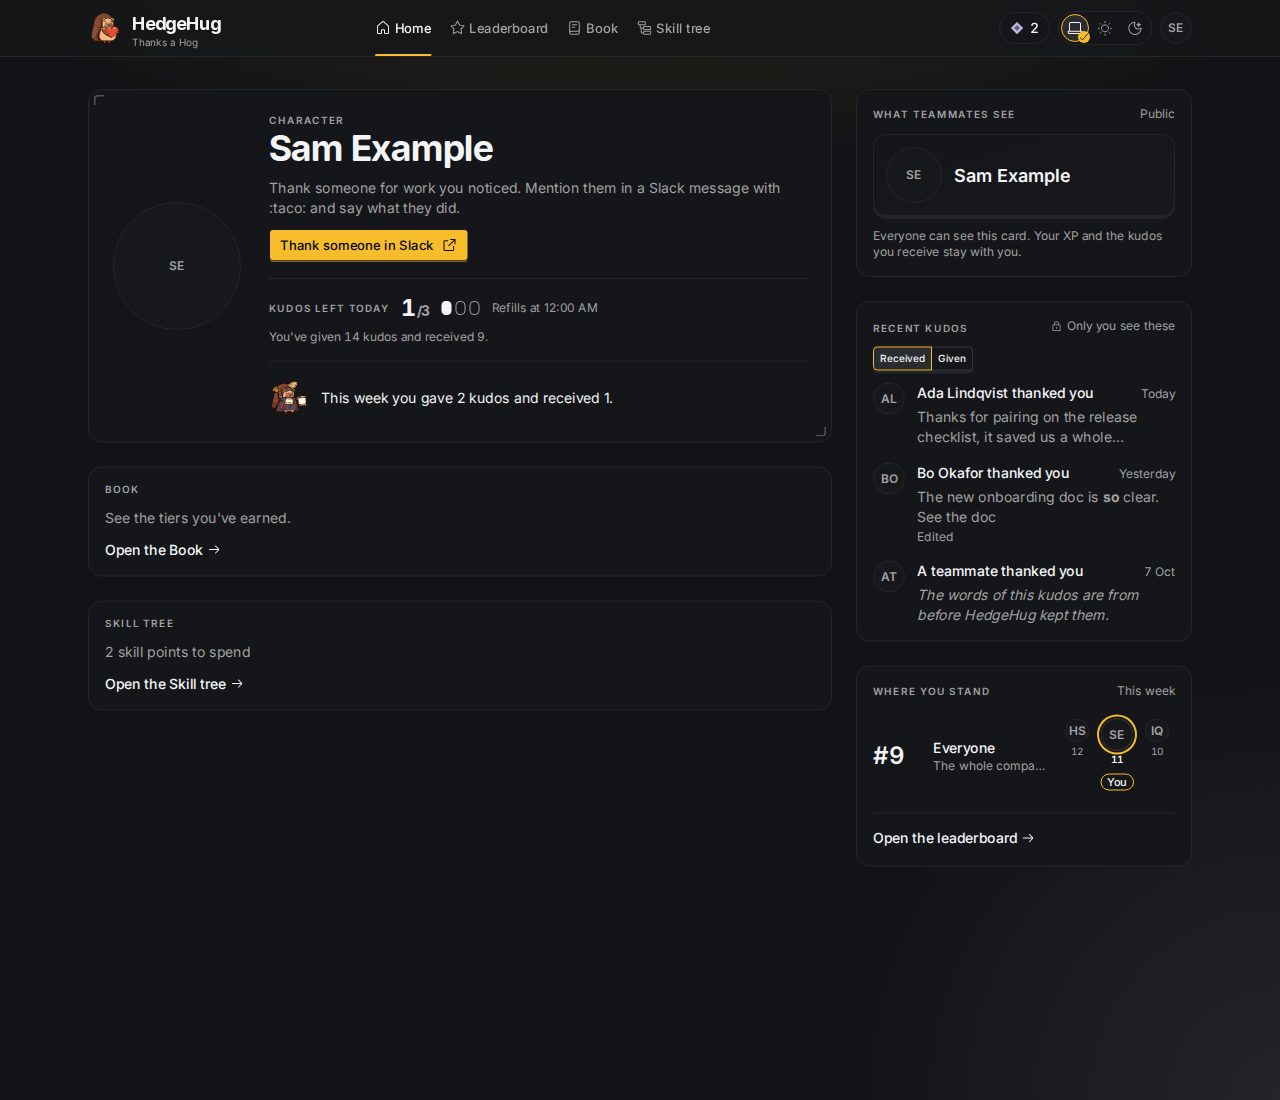
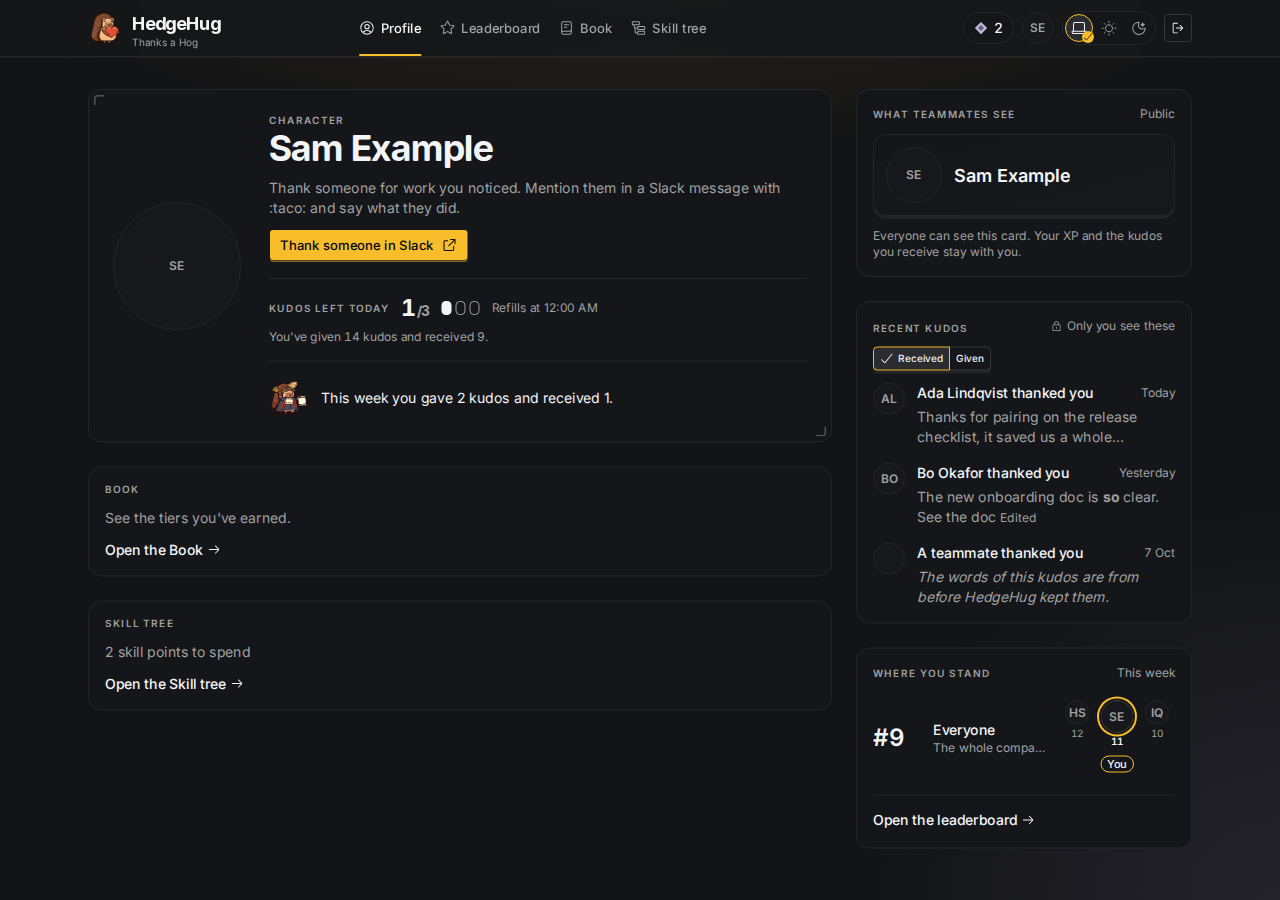
Recent kudos card: review and design fixes (#248)
GPT-6.1 Sol review: a failed read takes the card away, the kept rows are
state rather than a render-time ref, the selected option carries a check,
the up and down arrows move the switch, and each axe case asserts its state.
Fable 5.1 spot check: faces behind the first are blank tiles, the face stack
takes only its own width, the day sits at the row's top, Edited follows the
words inline, and a teammate who left has no initials in the fixtures.

diff --git a/website/src/home/RecentKudosCard.tsx b/website/src/home/RecentKudosCard.tsx
@@ -1,10 +1,10 @@
-import { IconLock } from "@posthog/icons";
+import { IconCheck, IconLock } from "@posthog/icons";
 import { ToggleGroup, ToggleGroupItem } from "@posthog/quill";
-import { useRef, useState } from "react";
+import { useState, type KeyboardEvent } from "react";
 import { KudosMessage } from "../activity/KudosMessage";
 import { Faces, namesOf } from "../activity/People";
-import type { Direction, RecentKudosRead } from "../recentKudosRead";
-import type { KudosGiven, KudosReceived, MyRecentKudos, RecentKudos } from "../shell";
+import type { Direction, RecentKudosRead, RecentKudosShown } from "../recentKudosRead";
+import type { KudosGiven, KudosReceived, RecentKudos } from "../shell";
 import { Panel } from "./Panel";
 
 type Entry = KudosReceived | KudosGiven;
@@ -30,11 +30,11 @@ export function RecentKudosCard({ useRecentKudos }: { useRecentKudos: RecentKudo
   );
 }
 
-function useRecentWhileTheNextLoads(answer: MyRecentKudos | undefined) {
-  const lastShown = useRef<RecentKudos | undefined>(undefined);
-  if (answer?.kind === "recent") lastShown.current = answer;
-  else if (answer !== undefined) lastShown.current = undefined;
-  return lastShown.current;
+function useRecentWhileTheNextLoads(answer: RecentKudosShown | undefined) {
+  const [lastShown, setLastShown] = useState<RecentKudos | undefined>(undefined);
+  const shown = answer === undefined ? lastShown : answer.kind === "recent" ? answer : undefined;
+  if (shown !== lastShown) setLastShown(shown);
+  return shown;
 }
 
 function isKnown(entry: Entry) {
@@ -43,17 +43,34 @@ function isKnown(entry: Entry) {
 
 function DirectionSwitch({ direction, onChoose }: { direction: Direction; onChoose: (direction: Direction) => void }) {
   return (
-    <ToggleGroup variant="outline" size="sm" role="radiogroup" aria-label="Show kudos" value={[direction]} onValueChange={(chosen) => chosen[0] && onChoose(chosen[0] as Direction)}>
+    <ToggleGroup variant="outline" size="sm" role="radiogroup" aria-label="Show kudos" value={[direction]} onValueChange={(chosen) => chosen[0] && onChoose(chosen[0] as Direction)} onKeyDown={moveOnUpAndDown}>
       {switchOrder.map((each) => {
         const selected = each === direction;
         return (
           <ToggleGroupItem key={each} value={each} role="radio" aria-checked={selected} aria-pressed={undefined} onFocus={() => onChoose(each)} className={`min-h-6 ${selected ? "border-primary bg-fill-selected" : ""}`}>
+            {selected && <IconCheck data-selected-mark aria-hidden="true" className="size-3.5" />}
             {directions[each].label}
           </ToggleGroupItem>
         );
       })}
     </ToggleGroup>
   );
+}
+
+function verticalStepOf(key: string) {
+  if (key === "ArrowDown") return 1;
+  if (key === "ArrowUp") return -1;
+  return undefined;
+}
+
+function moveOnUpAndDown(event: KeyboardEvent<HTMLDivElement>) {
+  const step = verticalStepOf(event.key);
+  if (step === undefined) return;
+  const options = [...event.currentTarget.querySelectorAll<HTMLElement>('[role="radio"]')];
+  const current = options.findIndex((option) => option === document.activeElement);
+  if (current === -1) return;
+  event.preventDefault();
+  options[(current + step + options.length) % options.length]?.focus();
 }
 
 function Rows({ entries, empty }: { entries: Entry[]; empty: string }) {
@@ -71,9 +88,9 @@ function Row({ entry }: { entry: Entry }) {
   const people = entry.kind === "kudosReceived" ? [entry.giver] : entry.recipients;
   return (
     <li className="flex gap-3">
-      <Faces people={people} className={entry.kind === "kudosGiven" ? "w-16" : ""} />
+      <Faces people={people} />
       <div className="flex min-w-0 flex-1 flex-col gap-1 text-sm">
-        <div className="flex items-baseline justify-between gap-2">
+        <div className="flex items-start justify-between gap-2">
           <span data-testid="recent-kudos-headline" className="min-w-0 font-medium [overflow-wrap:anywhere]">
             {headlineOf(entry)}
           </span>
@@ -98,7 +115,7 @@ const dayMonthAndYear = new Intl.DateTimeFormat("en-GB", { day: "numeric", month
 function When({ at }: { at: number }) {
   const date = new Date(at);
   return (
-    <time dateTime={date.toISOString()} className="shrink-0 text-xs text-muted-foreground tabular-nums">
+    <time dateTime={date.toISOString()} className="mt-0.5 shrink-0 text-xs text-muted-foreground tabular-nums">
       {dayOf(date, new Date())}
     </time>
   );

diff --git a/website/src/RecentKudosCard.test.tsx b/website/src/RecentKudosCard.test.tsx
@@ -2,8 +2,8 @@ import { screen, within } from "@testing-library/react";
 import { afterEach, beforeEach, describe, expect, it, vi } from "vitest";
 import { fixedQuests, questsFixtures } from "./questsFixtures";
 import { fixedRecentKudos, recentKudosFixtures } from "./recentKudosFixtures";
-import type { RecentKudosRead } from "./recentKudosRead";
-import { shellFixtures, type KudosGiven, type MyRecentKudos, type Person, type RecentKudos } from "./shell";
+import type { RecentKudosRead, RecentKudosShown } from "./recentKudosRead";
+import { shellFixtures, type KudosGiven, type Person, type RecentKudos } from "./shell";
 import { renderApp } from "./test/renderApp";
 import { fakeSystemTheme } from "./test/systemTheme";
 
@@ -24,7 +24,7 @@ function homeWith(read: RecentKudosRead) {
   return renderApp(shellFixtures.memberWithEveryPanelOpen, undefined, undefined, fixedQuests(questsFixtures.week), undefined, undefined, read);
 }
 
-function homeAnswering(received: MyRecentKudos | undefined, given: MyRecentKudos | undefined = threeGiven) {
+function homeAnswering(received: RecentKudosShown | undefined, given: RecentKudosShown | undefined = threeGiven) {
   return homeWith(fixedRecentKudos({ received, given }));
 }
 
@@ -117,6 +117,34 @@ describe("WS206: its frame", () => {
     await user.keyboard("{ArrowLeft}");
     expect(switchOption("Received")).toBeChecked();
     expect(headlinesOf()[0]).toBe("Ada Lindqvist thanked you");
+  });
+
+  it("moves between Received and Given with the up and down arrows too, wrapping at either end", async () => {
+    const { user } = homeAnswering(threeReceived);
+    switchOption("Received").focus();
+
+    await user.keyboard("{ArrowDown}");
+    expect(switchOption("Given")).toBeChecked();
+    expect(switchOption("Given")).toHaveFocus();
+
+    await user.keyboard("{ArrowDown}");
+    expect(switchOption("Received")).toBeChecked();
+    expect(switchOption("Received")).toHaveFocus();
+
+    await user.keyboard("{ArrowUp}");
+    expect(switchOption("Given")).toBeChecked();
+    expect(headlinesOf()[0]).toBe("You thanked Cleo Marchetti");
+  });
+
+  it("marks the selected option with a check as well as its colour", async () => {
+    const { user } = homeAnswering(threeReceived);
+    expect(switchOption("Received").querySelector("[data-selected-mark]")).not.toBeNull();
+    expect(switchOption("Given").querySelector("[data-selected-mark]")).toBeNull();
+
+    await user.click(switchOption("Given"));
+
+    expect(switchOption("Given").querySelector("[data-selected-mark]")).not.toBeNull();
+    expect(switchOption("Received").querySelector("[data-selected-mark]")).toBeNull();
   });
 
   it("keeps Given selected when it is clicked again", async () => {
@@ -231,6 +259,14 @@ describe("WS201: the card shows only while the read answers it", () => {
     ["not answered yet", undefined],
   ])("renders nothing and leaves no gap while %s", (_, answer) => {
     homeAnswering(answer);
+
+    expect(queryCard()).not.toBeInTheDocument();
+    expect(panel("What teammates see").nextElementSibling).toBe(panel("Quests this week"));
+  });
+
+  it("goes away once the read fails, even after it showed rows", async () => {
+    const { user } = homeAnswering(threeReceived, { kind: "broken" });
+    await user.click(switchOption("Given"));
 
     expect(queryCard()).not.toBeInTheDocument();
     expect(panel("What teammates see").nextElementSibling).toBe(panel("Quests this week"));

diff --git a/website/src/accessibility.test.tsx b/website/src/accessibility.test.tsx
@@ -182,12 +182,13 @@ describe("WS111 WS112: every state of the home's rail passes axe in light and da
   }
 });
 
-const recentKudosStates: { name: string; received: MyRecentKudos; given: MyRecentKudos; choose?: "Given" }[] = [
-  { name: "received, with an edited message and words from before HedgeHug kept them", received: recentKudosFixtures.threeReceived, given: recentKudosFixtures.threeGiven },
-  { name: "given, to one, two and five teammates", received: recentKudosFixtures.threeReceived, given: recentKudosFixtures.threeGiven, choose: "Given" },
-  { name: "empty, received", received: recentKudosFixtures.nothingYet, given: recentKudosFixtures.nothingYet },
-  { name: "empty, given", received: recentKudosFixtures.nothingYet, given: recentKudosFixtures.nothingYet, choose: "Given" },
-  { name: "with a deleted and a removed message", received: recentKudosFixtures.unavailableWords, given: recentKudosFixtures.nothingYet },
+const recentKudosStates: { name: string; received: MyRecentKudos | undefined; given: MyRecentKudos | undefined; choose?: "Given"; shows: string }[] = [
+  { name: "received, with an edited message and words from before HedgeHug kept them", received: recentKudosFixtures.threeReceived, given: recentKudosFixtures.threeGiven, shows: "Edited" },
+  { name: "given, to one, two and five teammates", received: recentKudosFixtures.threeReceived, given: recentKudosFixtures.threeGiven, choose: "Given", shows: "and 3 others" },
+  { name: "empty, received", received: recentKudosFixtures.nothingYet, given: recentKudosFixtures.nothingYet, shows: "Kudos you receive show here." },
+  { name: "empty, given", received: recentKudosFixtures.nothingYet, given: recentKudosFixtures.nothingYet, choose: "Given", shows: "Kudos you give show here" },
+  { name: "with a deleted and a removed message", received: recentKudosFixtures.unavailableWords, given: recentKudosFixtures.nothingYet, shows: "This message was deleted in Slack." },
+  { name: "keeping the received rows while Given loads", received: recentKudosFixtures.threeReceived, given: undefined, choose: "Given", shows: "Ada Lindqvist thanked you" },
 ];
 
 describe("WS223: every state of the Recent kudos card passes axe in light and dark", () => {
@@ -198,6 +199,7 @@ describe("WS223: every state of the Recent kudos card passes axe in light and da
         window.history.replaceState(null, "", "/");
         const { user, container, getByRole } = renderApp(shellFixtures.memberWithEveryPanelOpen, undefined, undefined, fixedQuests(questsFixtures.week), undefined, undefined, fixedRecentKudos(state));
         if (state.choose !== undefined) await user.click(getByRole("radio", { name: state.choose }));
+        expect(getByRole("region", { name: "Recent kudos" })).toHaveTextContent(state.shows);
         expect(await violationsIn(container, { runOnly: { type: "tag", values: wcag22AA } })).toEqual([]);
       });
     }

diff --git a/website/src/LiveApp.tsx b/website/src/LiveApp.tsx
@@ -12,9 +12,9 @@ import { useCodeRedemptionFailed } from "./codeRedemption";
 import { answerWithin } from "./commandAnswer";
 import { useSocketUnreachable } from "./connection";
 import type { QuestsShown } from "./questsRead";
-import type { Direction } from "./recentKudosRead";
+import type { Direction, RecentKudosShown } from "./recentKudosRead";
 import type { SkillTreeShown } from "./skillTreeRead";
-import type { MyRecentKudos, Period, ShellActions, Visitor } from "./shell";
+import type { Period, ShellActions, Visitor } from "./shell";
 import { forgetSignInStarted } from "./signInAttempt";
 
 export function LiveShell({ client }: { client: ConvexReactClient }) {
@@ -78,10 +78,10 @@ function useLiveSkillTree(asking: boolean, unreachable: boolean): SkillTreeShown
   return skillTree;
 }
 
-function useLiveRecentKudos(direction: Direction): MyRecentKudos | undefined {
+function useLiveRecentKudos(direction: Direction): RecentKudosShown | undefined {
   const request = useMemo((): RequestForQueries => ({ recent: { query: api.website.activity.getRecentKudos, args: { direction, limit: 3 } } }), [direction]);
   const { recent } = useQueries(request);
-  return recent instanceof Error ? undefined : recent;
+  return recent instanceof Error ? { kind: "broken" } : recent;
 }
 
 type Answers = { authLoading: boolean; redemptionFailed: boolean; unreachable: boolean; profile: MyProfile | undefined };

diff --git a/website/src/recentKudosFixtures.ts b/website/src/recentKudosFixtures.ts
@@ -1,5 +1,5 @@
-import type { Direction, RecentKudosRead } from "./recentKudosRead";
-import type { KudosGiven, KudosReceived, Message, MyRecentKudos, Person, RecentKudos } from "./shell";
+import type { Direction, RecentKudosRead, RecentKudosShown } from "./recentKudosRead";
+import type { KudosGiven, KudosReceived, Message, Person, RecentKudos } from "./shell";
 
 const today = Date.parse("2026-10-14T09:30:00");
 
@@ -25,7 +25,7 @@ const dev = teammate("Dev Rao");
 
 const eli = teammate("Eli Brandt");
 
-const formerTeammate = teammate("A teammate");
+const formerTeammate: Person = { name: "A teammate", face: { kind: "initials", initials: "" } };
 
 const publicChannel = { visibility: "public" } as const;
 
@@ -70,7 +70,7 @@ const unavailableWords: RecentKudos = {
 
 export const recentKudosFixtures = { threeReceived, threeGiven, nothingYet, unavailableWords } as const satisfies Record<string, RecentKudos>;
 
-export function fixedRecentKudos(answers: Record<Direction, MyRecentKudos | undefined>): RecentKudosRead {
+export function fixedRecentKudos(answers: Record<Direction, RecentKudosShown | undefined>): RecentKudosRead {
   return (direction) => answers[direction];
 }
 

diff --git a/website/src/activity/People.tsx b/website/src/activity/People.tsx
@@ -1,5 +1,5 @@
 import { MemberFace } from "../Face";
-import type { Person } from "../shell";
+import type { Face, Person } from "../shell";
 
 const facesShown = 3;
 
@@ -14,15 +14,19 @@ export function namesOf(people: Person[]) {
   return list.format([...names.slice(0, namesShown - 1), `${others} others`]);
 }
 
-export function Faces({ people, className = "" }: { people: Person[]; className?: string }) {
+export function Faces({ people }: { people: Person[] }) {
   const shown = people.slice(0, facesShown);
   return (
-    <span className={`flex shrink-0 ${className}`}>
+    <span className="flex shrink-0">
       {shown.map((person, index) => (
         <span key={index} data-testid="person-face" className={`relative rounded-full ring-2 ring-card ${index === 0 ? "" : "-ml-4"}`} style={{ zIndex: shown.length - index }}>
-          <MemberFace face={person.face} className="size-8" />
+          <MemberFace face={index === 0 ? person.face : behind(person.face)} className="size-8" />
         </span>
       ))}
     </span>
   );
+}
+
+function behind(face: Face): Face {
+  return face.kind === "initials" ? { kind: "initials", initials: "" } : face;
 }

diff --git a/website/src/liveShell.test.tsx b/website/src/liveShell.test.tsx
@@ -274,6 +274,18 @@ describe("WS200 WS207: the Recent kudos card reads getRecentKudos through the li
     expect(recentKudosAsked()).toEqual([{ direction: "given", limit: 3 }]);
   });
 
+  it("takes the card away when the read fails after it showed rows", () => {
+    profileRead.mockReturnValue(shellFixtures.memberWithEveryPanelLocked);
+    boardRead.mockReturnValue(recentKudosFixtures.threeReceived);
+    renderLiveSite();
+    expect(within(screen.getByRole("main")).getByRole("region", { name: "Recent kudos" })).toBeInTheDocument();
+
+    boardAnswers(new Error("Too many documents read"));
+
+    expect(within(screen.getByRole("main")).queryByRole("region", { name: "Recent kudos" })).not.toBeInTheDocument();
+    expect(screen.getByRole("heading", { level: 1, name: "Sam Example" })).toBeInTheDocument();
+  });
+
   it("renders no card and keeps the home when the read fails", () => {
     profileRead.mockReturnValue(shellFixtures.memberWithEveryPanelLocked);
     boardRead.mockReturnValue(new Error("Too many documents read"));

diff --git a/website/src/activity/KudosMessage.tsx b/website/src/activity/KudosMessage.tsx
@@ -18,14 +18,12 @@ export function KudosMessage({ message, clamped }: { message: Message; clamped: 
 
 function WordsOf({ message, clamped }: { message: Words; clamped: boolean }) {
   return (
-    <div className="flex flex-col gap-0.5">
-      <p data-testid="kudos-message-words" className={`[overflow-wrap:anywhere] ${clamped ? "line-clamp-2" : ""}`}>
-        {message.segments.map((segment, index) => (
-          <SegmentOf key={index} segment={segment} linked={!clamped} />
-        ))}
-      </p>
-      {message.edited && <span className="text-xs text-muted-foreground">Edited</span>}
-    </div>
+    <p data-testid="kudos-message-words" className={`[overflow-wrap:anywhere] ${clamped ? "line-clamp-2" : ""}`}>
+      {message.segments.map((segment, index) => (
+        <SegmentOf key={index} segment={segment} linked={!clamped} />
+      ))}
+      {message.edited && <span className="ml-1 text-xs text-muted-foreground">Edited</span>}
+    </p>
   );
 }
 

diff --git a/website/src/recentKudosRead.ts b/website/src/recentKudosRead.ts
@@ -4,4 +4,6 @@ import type { MyRecentKudos } from "./shell";
 
 export type Direction = FunctionArgs<typeof api.website.activity.getRecentKudos>["direction"];
 
-export type RecentKudosRead = (direction: Direction) => MyRecentKudos | undefined;
+export type RecentKudosShown = MyRecentKudos | { kind: "broken" };
+
+export type RecentKudosRead = (direction: Direction) => RecentKudosShown | undefined;
